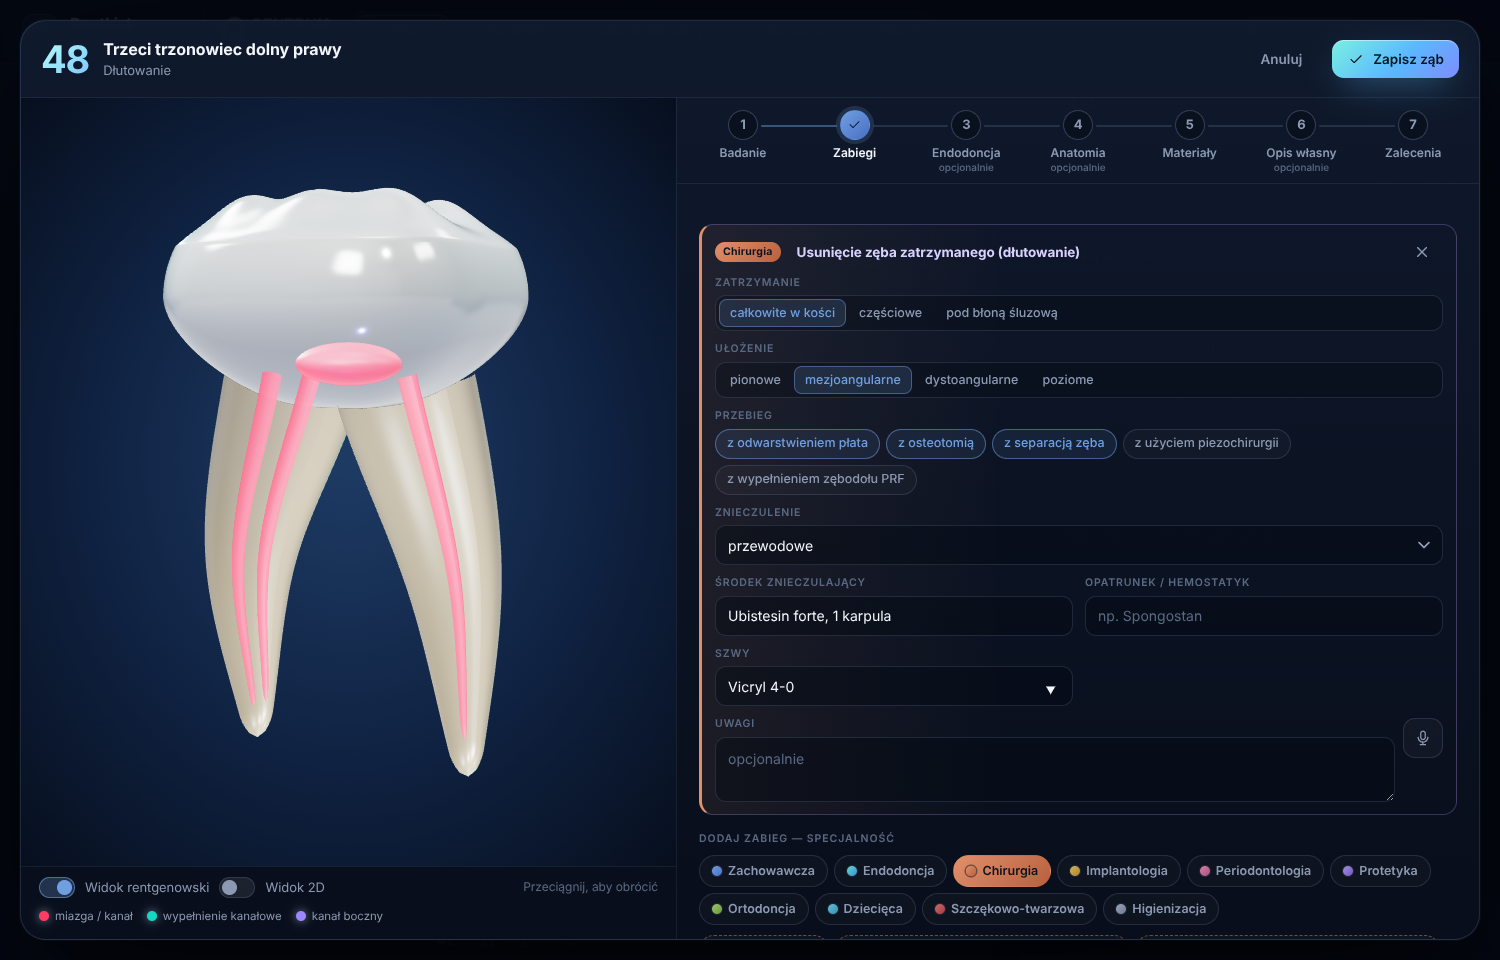
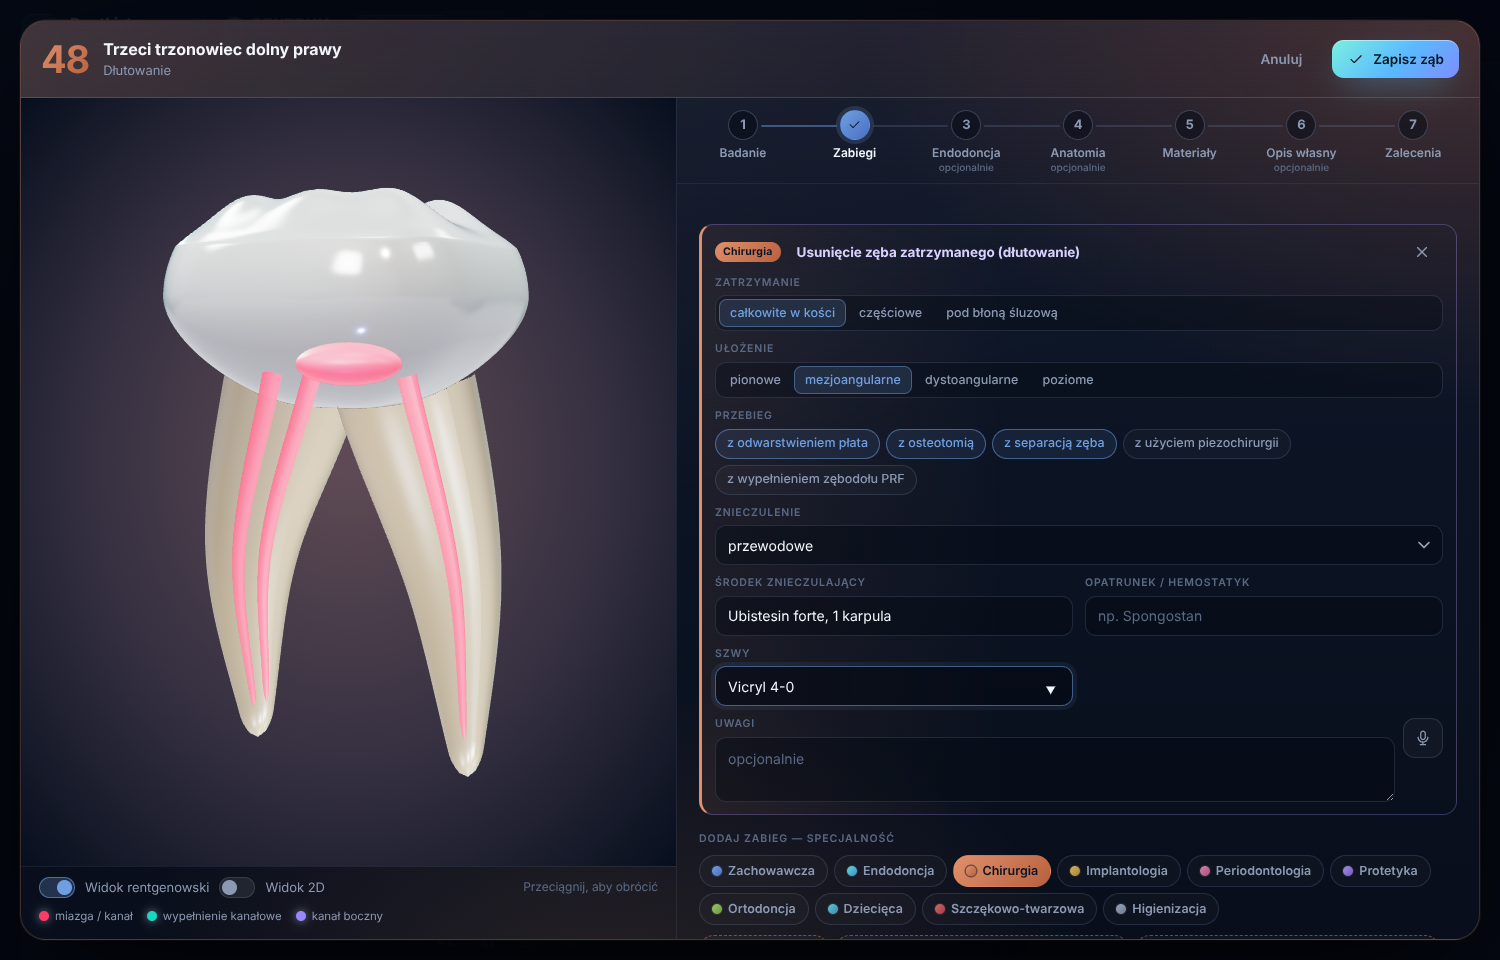
DentList 1.0.1: screens tinted by specialty (subdued gradients)
- Whole-screen background, panels and top bar take the home specialty's colour
  (endodontics keeps the original EndoList look)
- Tooth card (background, header, 3D view) takes the colour of the specialty being
  worked on; visit history rows tinted by their main specialty

Claude-Session: https://claude.ai/code/session_01N2R7jD5mcfB683ZhhSfV7y

Changed region(s): [[0.0, 0.0, 0.46, 0.9062], [0.644, 0.0, 1.0, 0.25], [0.368, 0.9688, 0.4293, 1.0]]

diff --git a/dentlist/public/js/app.js b/dentlist/public/js/app.js
@@ -73,7 +73,7 @@ const DEFAULT_SETTINGS = {
   security: { autolock: 15 },
   used: {},
 };
-export const APP_VERSION = '1.0.0';
+export const APP_VERSION = '1.0.1';
 const WRITER = 2; // letter writer generation (first-person narrative)
 const S = { session: null, folder: null, data: null, view: 'visit', visitId: null, fdi: null, ttab: 'anat', letterId: null, patientId: null, search: '', saving: 0, backingUp: false, installEvt: null, lastActive: Date.now(), previewUrl: null, sync: null, syncStatus: null };
 const D = () => S.data;
@@ -86,6 +86,9 @@ function applyTheme() {
   // endodontics keeps the original EndoList look; other specialties use their own subdued gradient
   const [a, b] = k === 'endo' ? ['#5ee6d6', '#62a9ff'] : [sp.color, sp.color2];
   r.setProperty('--accent', a); r.setProperty('--accent-2', b); r.setProperty('--acc-rgb', hexRgb(a)); r.setProperty('--acc2-rgb', hexRgb(b));
+  // background strength: endodontics = original EndoList look; other specialties a stronger, still subdued tint
+  const strong = k !== 'endo';
+  r.setProperty('--glow1', strong ? '0.24' : '0.11'); r.setProperty('--glow2', strong ? '0.17' : '0.08'); r.setProperty('--tint', strong ? '0.07' : '0'); r.setProperty('--panel-tint', strong ? '0.07' : '0');
   document.documentElement.dataset.spec = k;
 }
 const specStyle = (k) => `--sp:${SPECS[k]?.color || '#888'};--sp2:${SPECS[k]?.color2 || '#666'}`;
@@ -620,7 +623,7 @@ function openTooth(fdi) {
   S.ws = { fdi, isNew: !ex, draft: clone(ex || newToothRec(fdi, v.performer === 'other')), dirty: !ex };
   S.ttab = wsSteps()[0][0];
   const ov = document.createElement('div'); ov.className = 'ws-overlay'; ov.id = 'ws';
-  ov.innerHTML = workspaceHTML(); requestAnimationFrame(centerStep);
+  ov.innerHTML = workspaceHTML(); requestAnimationFrame(() => { centerStep(); if (S.ws) tintWorkspace(S.ws.draft); });
   $('#modal-root').appendChild(ov);
   mount3D(); renderDx(); refreshVisit();
 }
@@ -663,6 +666,15 @@ function stepsHTML(t) {
   return wsSteps().map(([k, l, title, opt], i) => { const done = stepDone(k, t);
     return `<button data-ttab="${k}" class="step ${S.ttab === k ? 'on' : ''} ${done ? 'done' : ''}" title="${esc(title)}"><span class="n">${done ? I('check') : i + 1}</span><span class="l">${l}${opt ? '<small>opcjonalnie</small>' : ''}</span></button>`; }).join('');
 }
+/** The tooth card takes the colour of the specialty being worked on: the chosen procedure group, the endodontic step, or the tooth's last procedure. */
+function tintWorkspace(t) {
+  const el = $('#ws'); if (!el) return;
+  const sp = S.ttab === 'endo' || (S.ttab === 'anat' && home() === 'endo') ? 'endo' : S.ttab === 'work' ? (S.workSpec || (home() === 'endo' ? 'zach' : home())) : (t.work || []).length ? specOf(t.work.at(-1)) : ENDO[t.endo?.proc] ? 'endo' : home();
+  const c = SPECS[sp] || SPECS.zach;
+  el.style.setProperty('--ws-rgb', hexRgb(c.color)); el.style.setProperty('--ws2-rgb', hexRgb(c.color2)); el.dataset.spec = sp;
+  // the 3D view keeps the original navy for endodontics, other specialties tint it
+  try { S.t3d?.setTint?.(sp === 'endo' ? null : c.color2); } catch {}
+}
 /** Keep the current step visible in the strip (it scrolls sideways on a phone). */
 function centerStep() { const st = $('#ws-tabs'), on = $('#ws-tabs .step.on'); if (!st || !on || st.scrollWidth <= st.clientWidth) return; const a = st.getBoundingClientRect(), b = on.getBoundingClientRect(); st.scrollLeft += b.left - a.left - (a.width - b.width) / 2; }
 function stepNav() {
@@ -677,6 +689,7 @@ function refreshWorkspace({ tabs = true, model = false } = {}) {
   const t = S.ws.draft;
   if (tabs) { const y = $('#ws-tab').scrollTop; const nb = document.createElement('div'); nb.innerHTML = workspaceHTML(); $('#ws-tabs').innerHTML = nb.querySelector('#ws-tabs').innerHTML; $('#ws-tab').innerHTML = tabBody(t); $('#ws-tab').scrollTop = y; renderDx(); }
   $('#ws-sum').textContent = toothSummary(t);
+  tintWorkspace(t);
   centerStep();
   if (model) update3D();
 }
@@ -693,7 +706,7 @@ function mount3D() {
   if (localStorage.getItem('dentlist:no3d') === '1' || !webglOk()) return flat(localStorage.getItem('dentlist:no3d') === '1' ? 'turned off' : 'no WebGL 2');
   let retried = false;
   const start = () => {
-    S.t3d = new Tooth3D(el); S.t3d.xray = S.xray !== false; S.t3d.setTooth(S.ws?.draft || t, opts3D(S.ws?.draft || t));
+    S.t3d = new Tooth3D(el); S.t3d.xray = S.xray !== false; S.t3d.setTooth(S.ws?.draft || t, opts3D(S.ws?.draft || t)); if (S.ws) tintWorkspace(S.ws.draft);
     const mine = S.t3d;
     // health check: after opening and after every resize (e.g. maximising the window) the tooth must really be drawn
     const check = () => {
@@ -1341,6 +1354,8 @@ function visitChips(v) {
   for (const w of v.procs || []) out.push({ spec: specOf(w), fdi: 'JU', label: procShort(w) });
   return out;
 }
+/** The specialty with the most entries in a visit (for the row tint). */
+function mainSpec(chips) { const n = {}; for (const c of chips) if (c.spec) n[c.spec] = (n[c.spec] || 0) + 1; return Object.entries(n).sort((a, b) => b[1] - a[1])[0]?.[0] || ''; }
 function visitHistory(vs, { patient = null, readonly = false, doctor = '' } = {}) {
   S.vhLookup ??= new Map(); for (const v of vs) S.vhLookup.set(v.id, { v, patient: patient || D().patients.get(v.patientId) });
   if (!vs.length) return '<div class="empty" style="padding:24px 10px"><b>Brak wizyt</b>Wizyty pojawią się tu po zapisaniu.</div>';
@@ -1352,7 +1367,8 @@ function visitHistory(vs, { patient = null, readonly = false, doctor = '' } = {}
   <div class="vh">${shown.map((v) => {
     const chips = visitChips(v).filter((c) => !f || c.spec === f), open = S.vhOpen?.has(v.id);
     const detail = recordEntry({ visits: [v], patient: patient || D().patients.get(v.patientId) || {}, fmtDate }).split('\n').filter((l) => l && !l.startsWith('Data: '));
-    return `<div class="vh-item ${open ? 'open' : ''}"><button type="button" class="vh-head" data-act="vh-toggle" data-id="${v.id}">
+    const dom = mainSpec(visitChips(v));
+    return `<div class="vh-item ${open ? 'open' : ''}" ${dom ? `style="${specStyle(dom)}"` : ''}><button type="button" class="vh-head" data-act="vh-toggle" data-id="${v.id}">
         <span class="vh-date">${fmtDate(v.date)}<small>${v.performer === 'other' ? esc(v.otherDentist || 'inny lekarz') : doctor ? esc(doctor) : 'moja wizyta'}</small></span>
         <span class="vh-chips">${chips.map(chip).join('') || '<span class="faint small">bez wpisów</span>'}</span>
         <span class="vh-caret">${I('next')}</span></button>

diff --git a/dentlist/public/css/app.css b/dentlist/public/css/app.css
@@ -25,7 +25,8 @@ svg.i { width: 18px; height: 18px; fill: none; stroke: currentColor; stroke-widt
 ::-webkit-scrollbar-thumb { background: rgba(148, 172, 214, 0.15); border-radius: 10px; border: 3px solid transparent; background-clip: padding-box; }
 :focus-visible { outline: 2px solid var(--accent); outline-offset: 2px; }
 .bg-glow { position: fixed; inset: 0; pointer-events: none; z-index: 0;
-  background: radial-gradient(1000px 600px at 8% -12%, rgba(var(--acc2-rgb), 0.11), transparent 60%), radial-gradient(900px 700px at 105% 110%, rgba(var(--acc-rgb), 0.08), transparent 60%), linear-gradient(180deg, var(--bg-2), var(--bg)); }
+  /* the whole screen takes the home specialty's subdued gradient (endodontics keeps the original EndoList levels) */
+  background: radial-gradient(1100px 680px at 8% -12%, rgba(var(--acc2-rgb), var(--glow1, 0.11)), transparent 62%), radial-gradient(1000px 760px at 105% 110%, rgba(var(--acc-rgb), var(--glow2, 0.08)), transparent 62%), linear-gradient(160deg, rgba(var(--acc2-rgb), var(--tint, 0)), transparent 55%), linear-gradient(180deg, var(--bg-2), var(--bg)); }
 
 /* ---------------------------------------------------------- buttons */
 .btn { display: inline-flex; align-items: center; justify-content: center; gap: 8px; height: 38px; padding: 0 15px; border-radius: 12px; border: 1px solid var(--line-2);
@@ -325,7 +326,9 @@ select.mini { width: auto; height: 30px; font-size: 12px; }
 
 .ws-overlay { position: fixed; inset: 0; z-index: 90; display: grid; place-items: center; padding: 18px; background: rgba(2, 6, 14, 0.9); animation: fade 0.2s ease; } /* no backdrop blur: it can hide the 3D canvas on some GPUs */
 .ws { width: min(1460px, 100%); height: min(920px, 100%); display: flex; flex-direction: column; border-radius: 26px; overflow: hidden;
-  background: linear-gradient(180deg, rgba(16, 26, 46, 0.97), rgba(8, 14, 27, 0.98)); border: 1px solid var(--line-2); box-shadow: 0 50px 130px -30px rgba(0, 0, 0, 0.95), 0 0 0 1px rgba(var(--acc-rgb), 0.06); animation: wsin 0.32s cubic-bezier(0.2, 0.9, 0.3, 1.1); }
+  /* tinted by the specialty being worked on (set from the tooth card) */
+  background: radial-gradient(1000px 620px at 100% 0%, rgba(var(--ws2-rgb, var(--acc2-rgb)), 0.30), transparent 62%), radial-gradient(800px 560px at 40% 110%, rgba(var(--ws-rgb, var(--acc-rgb)), 0.16), transparent 62%), linear-gradient(160deg, rgba(var(--ws-rgb, var(--acc-rgb)), 0.08), transparent 50%), linear-gradient(180deg, rgba(16, 26, 46, 0.97), rgba(8, 14, 27, 0.98));
+  border: 1px solid rgba(var(--ws-rgb, var(--acc-rgb)), 0.22); box-shadow: 0 50px 130px -30px rgba(0, 0, 0, 0.95), 0 0 0 1px rgba(var(--ws-rgb, var(--acc-rgb)), 0.08); transition: border-color 0.3s; animation: wsin 0.32s cubic-bezier(0.2, 0.9, 0.3, 1.1); }
 @keyframes wsin { from { transform: scale(0.94) translateY(14px); opacity: 0; } }
 .ws-head { display: flex; align-items: center; gap: 14px; padding: 16px 20px; border-bottom: 1px solid var(--line); }
 .ws-head .tp-num { font-size: 38px; }
@@ -665,3 +668,14 @@ button.fstep { cursor: pointer; } button.fstep:disabled { cursor: default; opaci
 .scan.add { cursor: pointer; place-content: center; height: 172px; color: var(--accent); border-style: dashed; font-size: 12.5px; font-weight: 600; text-align: center; }
 label.cmp-check { display: flex; gap: 10px; align-items: flex-start; font-size: 13px; color: var(--text); cursor: pointer; }
 label.cmp-check input { accent-color: var(--accent); width: 18px; height: 18px; margin-top: 1px; flex: none; }
+
+/* visit history rows tinted by their main specialty */
+.vh-item[style*="--sp"] { background: linear-gradient(90deg, color-mix(in srgb, var(--sp) 11%, transparent), rgba(255, 255, 255, 0.015) 55%); border-color: color-mix(in srgb, var(--sp) 30%, var(--line-2)); }
+
+/* tooth card header carries the specialty colour too */
+.ws-head { background: linear-gradient(90deg, rgba(var(--ws-rgb, var(--acc-rgb)), 0.16), rgba(var(--ws2-rgb, var(--acc2-rgb)), 0.05) 60%, transparent); border-bottom-color: rgba(var(--ws-rgb, var(--acc-rgb)), 0.25); transition: background 0.3s; }
+.ws-head .tp-num { background: linear-gradient(135deg, rgb(var(--ws-rgb, var(--acc-rgb))), rgb(var(--ws2-rgb, var(--acc2-rgb)))); -webkit-background-clip: text; background-clip: text; color: transparent; }
+
+/* panels and the top bar carry a light wash of the home specialty (0 for endodontics = original look) */
+.panel { background-image: linear-gradient(160deg, rgba(var(--acc2-rgb), var(--panel-tint, 0)), rgba(var(--acc-rgb), calc(var(--panel-tint, 0) * 0.4)) 55%, transparent); }
+.topbar { background-image: linear-gradient(90deg, rgba(var(--acc2-rgb), calc(var(--panel-tint, 0) * 1.3)), transparent 70%); }

diff --git a/dentlist/public/js/tooth3d.js b/dentlist/public/js/tooth3d.js
@@ -82,10 +82,8 @@ export class Tooth3D {
     r.toneMapping = THREE.ACESFilmicToneMapping; r.toneMappingExposure = 1.25; r.outputColorSpace = THREE.SRGBColorSpace;
     el.appendChild(r.domElement);
     this.scene = new THREE.Scene();
-    { const c = document.createElement('canvas'); c.width = c.height = 512; const x = c.getContext('2d');
-      const g = x.createRadialGradient(256, 230, 20, 256, 256, 360); g.addColorStop(0, '#1d3a63'); g.addColorStop(0.55, '#0f2140'); g.addColorStop(1, '#070f1e');
-      x.fillStyle = g; x.fillRect(0, 0, 512, 512);
-      const bg = new THREE.CanvasTexture(c); bg.colorSpace = THREE.SRGBColorSpace; this.scene.background = bg; }
+    { const c = document.createElement('canvas'); c.width = c.height = 512; this.bgCanvas = c;
+      const bg = new THREE.CanvasTexture(c); bg.colorSpace = THREE.SRGBColorSpace; this.scene.background = bg; this.bgTex = bg; this.paintBg(null); }
     const pm = new THREE.PMREMGenerator(r);
     this.scene.environment = pm.fromScene(new THREE.RoomEnvironment(), 0.04).texture;
     this.camera = new THREE.PerspectiveCamera(32, 1, 0.1, 500);
@@ -109,6 +107,14 @@ export class Tooth3D {
     el.addEventListener('pointerdown', () => { this.controls.autoRotate = false; clearTimeout(this.resume); });
     el.addEventListener('pointerup', () => { this.resume = setTimeout(() => { this.controls.autoRotate = true; }, 5000); });
   }
+  /** Background behind the tooth: the original navy, or navy blended with a specialty colour (subdued). */
+  paintBg(tint) {
+    const mix = (h1, h2, k) => { const p = (h) => [1, 3, 5].map((i) => parseInt(h.slice(i, i + 2), 16)); const a = p(h1), b = p(h2); return `rgb(${a.map((v, i) => Math.round(v + (b[i] - v) * k)).join(',')})`; };
+    const x = this.bgCanvas.getContext('2d'), g = x.createRadialGradient(256, 230, 20, 256, 256, 360);
+    g.addColorStop(0, tint ? mix('#1d3a63', tint, 0.42) : '#1d3a63'); g.addColorStop(0.55, tint ? mix('#0f2140', tint, 0.22) : '#0f2140'); g.addColorStop(1, '#070f1e');
+    x.fillStyle = g; x.fillRect(0, 0, 512, 512); this.bgTex.needsUpdate = true;
+  }
+  setTint(hex) { if (hex === this.tint) return; this.tint = hex; this.paintBg(hex); }
   setXray(on) { this.xray = on; if (this.rec) this.setTooth(this.rec, this.opts); }
   setTooth(rec, opts = {}) {
     this.rec = rec; this.opts = opts;

diff --git a/dentlist/public/sw.js b/dentlist/public/sw.js
@@ -1,5 +1,5 @@
 // DentList — service worker: aplikacja działa offline (AI wymaga internetu).
-const VERSION = 'dentlist-v1';
+const VERSION = 'dentlist-v2';
 const ASSETS = [
   './', 'index.html', 'manifest.webmanifest', 'config.json', 'css/app.css',
   'js/app.js', 'js/ai.js', 'js/data.js', 'js/dx.js', 'js/files.js', 'js/letter.js', 'js/odontogram.js', 'js/pdf.js', 'js/vault.js', 'js/tooth3d.js', 'js/speech.js', 'js/letterview.js', 'js/sync.js', 'js/privacy.js', 'js/org.js',
